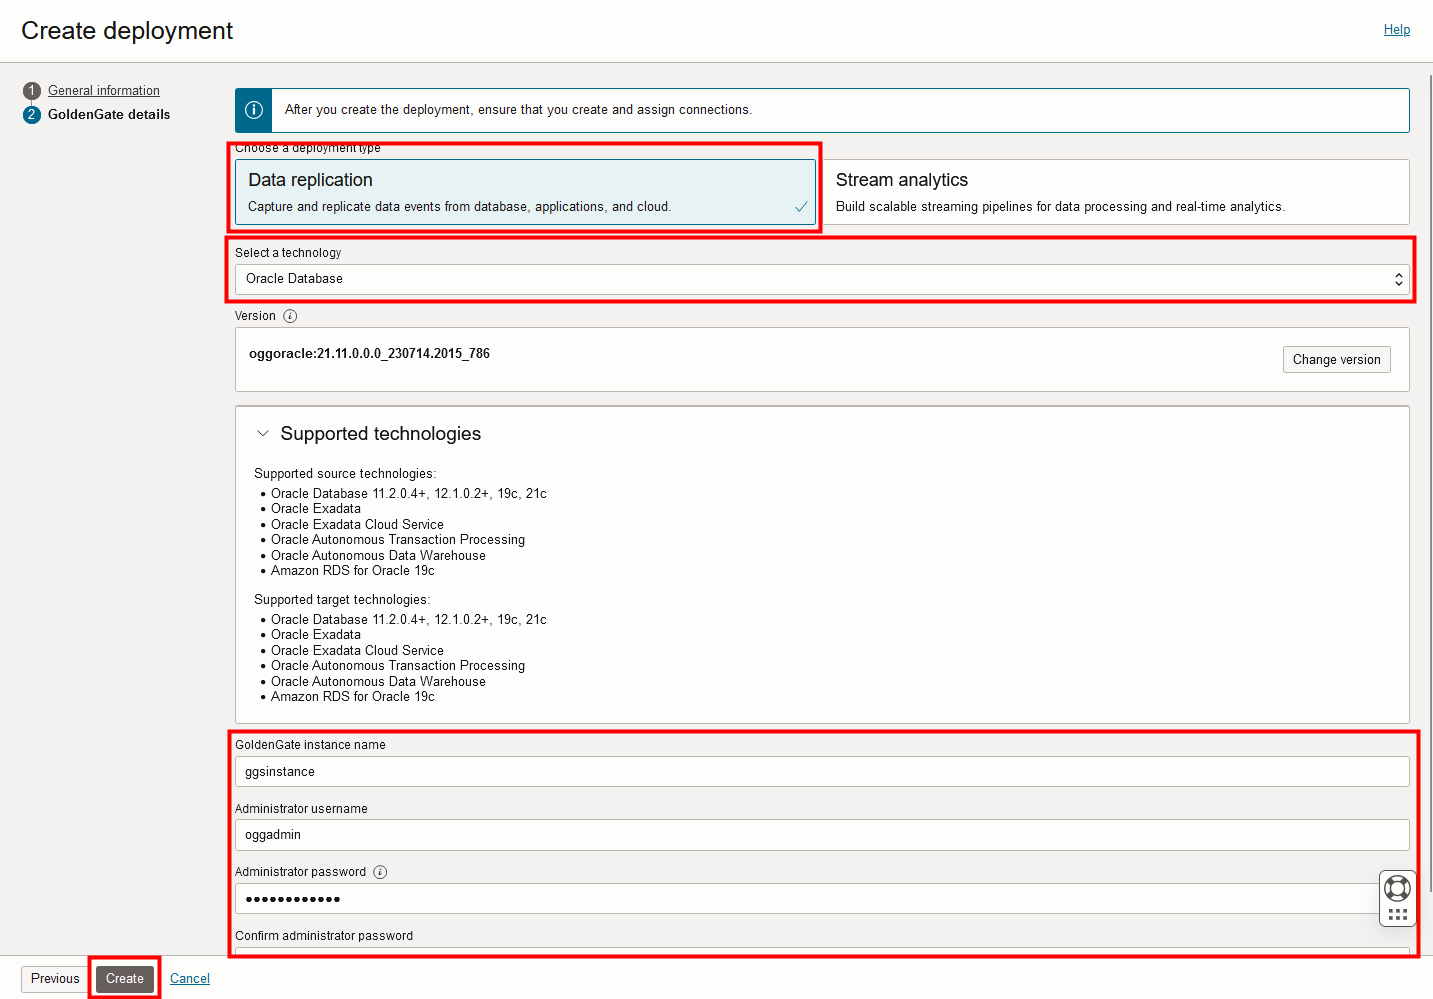
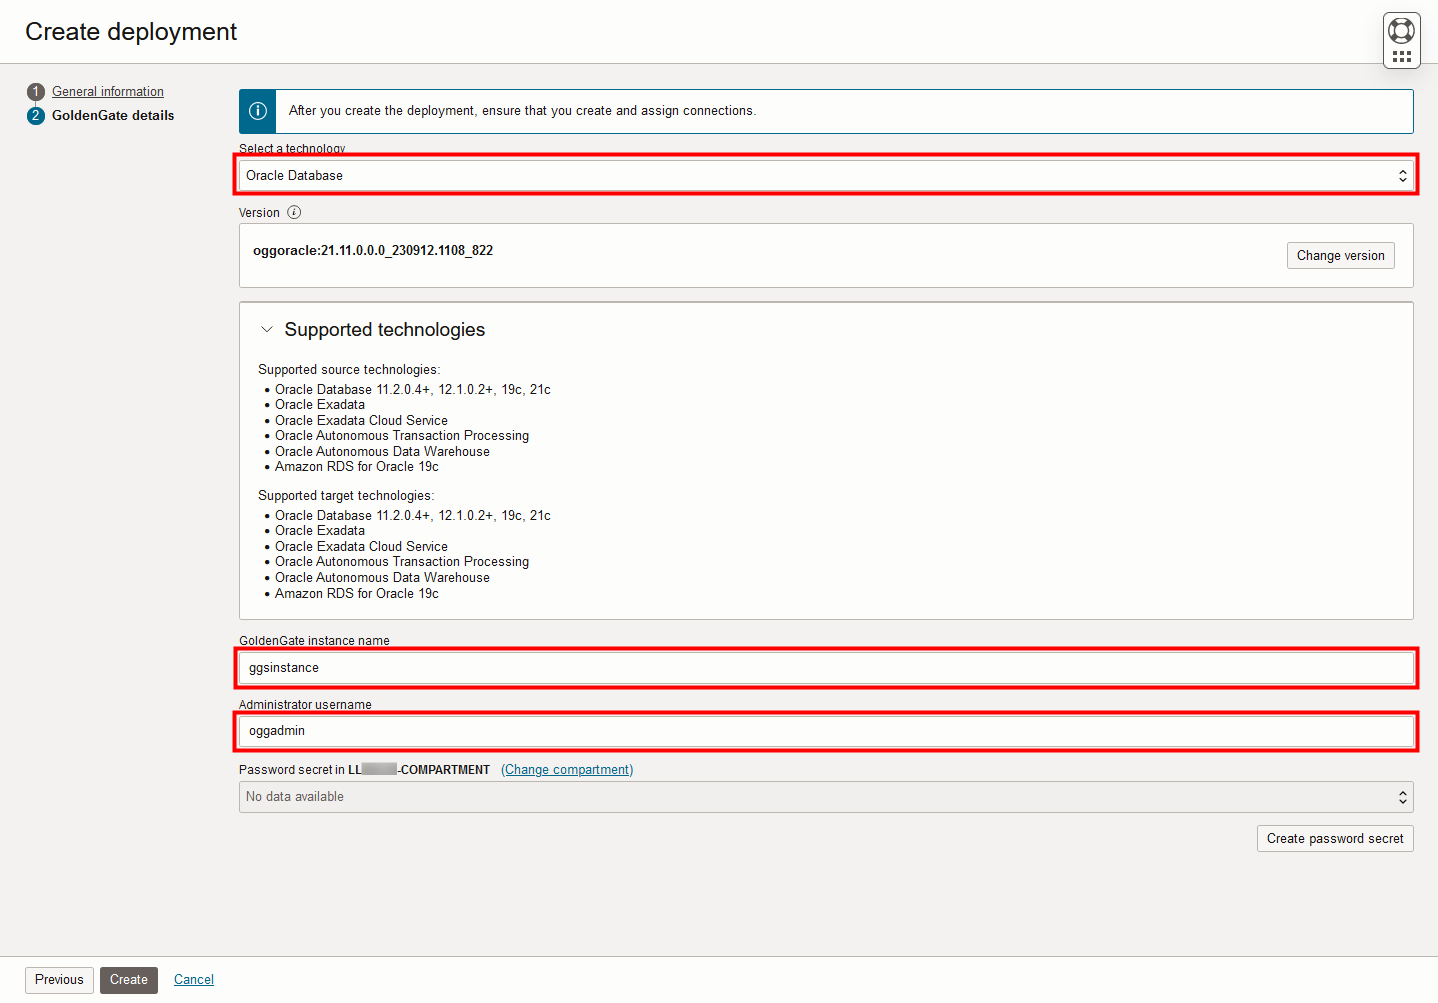
HOL to GB conversion (WMS 11396) (#117)
* Workshop 2120: Flow update and new repo validation

* Update adb.md

* Workshop 11092: Development for CloudWorld

Initial development for CloudWorld LiveLab

* Workshop 11092: Development for CloudWorld

* Update README.md

* Workshop 11092 - CloudWorld development

* Workshop 11092: Self QA

* Workshop 11092: Self QA

* Workshop 11092: Self QA

* Workshop 11092: Self QA

* Update extract.md

* Workshop 11092: Lint Checker changes

* Update create.md

* Workshop 11092: Grammarly checks

* Workshop 11148: ATP to Kafka workshop

New development

* ATP-Streaming and OCW udpates

* ATP-Stream development

* OCI GGS workshop fixes

* atp-streaming

clean up unused images

* atp-kafka clean up

* atp-streaming clean up

* bidirectional replication clean up

* atp-objectstorage cleanup

* oci-ggs cleanup

* ogg-to-ggs cleanup

* ggs-to-ogg cleanup

* atp-kafka clean up and create ggs-common/adb/images to test

* atp-objectstore consolidation

* Workshop 11092: File clean up

* Updated image references to ggs-common
* Added learn more links to labs

* Workshop 11148: File cleanup

* Updated image references to ggs-common
* Updated Learn more links
* Updated README

* Workshop 11093: File cleanup

* Update adb.md

* Workshop 11092: Replicat and monitor updates

* Update extract.md

* Workshop 2920/OCW #10

* Consolidation of duplicate image files to ggs-common
* Updates for OCW

* Updates to Workshop 4841/OCW Lab 10

Completed consolidation and update to workshop
[…]

diff --git a/ggsa-pipeline/workshops/sandbox/index.html b/ggsa-pipeline/workshops/sandbox/index.html
@@ -1,0 +1,62 @@
+<!DOCTYPE html>
+<html lang="en">
+
+<head>
+    <meta charset="utf-8">
+    <meta http-equiv="X-UA-Compatible" content="IE=edge">
+    <meta name="viewport" content="width=device-width, initial-scale=1">
+    <meta name="description" content="Oracle LiveLabs gives you access to Oracle's products to run a wide variety of labs and workshops; allowing you to experience our best technology, live!">
+    <title>Oracle LiveLabs</title>
+
+    <script src="https://oracle-livelabs.github.io/common/redwood-hol/js/jquery-1.11.0.min.js"></script>
+    <script src="https://oracle-livelabs.github.io/common/redwood-hol/js/jquery-ui-1.10.4.custom.js"></script>
+    <script src="https://oracle-livelabs.github.io/common/redwood-hol/js/main.min.js"></script>
+
+    <link rel="stylesheet" href="https://oracle-livelabs.github.io/common/redwood-hol/css/style.min.css" />
+    <link rel="shortcut icon" href="https://oracle-livelabs.github.io/common/redwood-hol/img/favicon.ico" />
+</head>
+
+<body>
+    <header class="hol-Header" role="banner">
+        <div class="hol-Header-wrap">
+            <div class="hol-Header-logo"><span>Oracle LiveLabs</span></div>
+            <a href="https://developer.oracle.com/livelabs" target="_blank" id="livelabs" title="Oracle LiveLabs"></a>
+            <div class="hol-Header-actions">
+                <button id="openNav" class="hol-Header-button hol-Header-button--menu rightNav" aria-label="Open Menu"
+                    title="Open Menu">
+                    <span class="hol-Header-toggleIcon"></span>
+                </button>
+            </div>
+        </div>
+    </header>
+
+    <div id="container">
+        <div id="leftNav">
+            <div id="toc"></div>
+        </div>
+        <div id="contentBox">
+            <main class="hol-Content" id="module-content"></main>
+        </div>
+    </div>
+
+      <footer class="hol-Footer">
+        <a class="hol-Footer-topLink" href="#top">Return to Top</a>
+        <div id="footer-banner"><div class="footer-row">
+          <div class="footer-content"><ul class="footer-links">
+              <li><a href="https://docs.oracle.com/pls/topic/lookup?ctx=en/legal&id=cpyr" target="_blank" aria-label="Open a new window to Oracle legal notices" data-lbl="copyright">© Oracle</a></li>
+              <li><a href="https://www.oracle.com/corporate/index.html" target="_blank" aria-label="Open a new window to learn more about oracle" data-lbl="about-oracle">About Oracle</a></li>
+              <li><a href="https://www.oracle.com/corporate/contact/" target="_blank" aria-label="Open a new window to contact oracle" data-lbl="contact-us">Contact Us</a></li>
+              <li class="footer-links-break"></li>
+              <li><a href="https://docs.oracle.com/en/browseall.html" target="_blank" aria-label="Open a new window to products a-z" data-lbl="products-a-z">Products A-Z</a></li>
+              <li><a href="https://www.oracle.com/legal/privacy/" target="_blank" aria-label="Open a new window to read more about Oracle terms of use and privacy" data-lbl="terms-of-use-and-privacy">Terms of Use & Privacy</a></li>
+              <li><a href="https://www.oracle.com/legal/privacy/privacy-policy.html#11" target="_blank" aria-label="Open a new window to read more about managing Oracle cookie preferences" data-lbl="cookie-preferences">Cookie Preferences</a></li>
+              <li><a href="https://www.oracle.com/legal/privacy/marketing-cloud-data-cloud-privacy-policy.html#adchoices" target="_blank" aria-label="Open a new window to ad choices" data-lbl="ad-choices">Ad Choices</a></li>
+              <li class="footer-links-break"></li><li class="last"><a href="https://docs.oracle.com/pls/topic/lookup?ctx=en/legal&id=cpyr" target="_blank" aria-label="Open a new window to Oracle legal notices" data-lbl="copyright">© Oracle</a></li>
+            </ul>
+          </div>
+        </div>
+      </div>
+    </footer>
+</body>
+
+</html>

diff --git a/ggsa-pipeline/create-ggsa-deployment/create-ggsa-deployment.md b/ggsa-pipeline/create-ggsa-deployment/create-ggsa-deployment.md
@@ -88,13 +88,21 @@ In this lab, you will:
 
 15. For Administrator Username, enter **osaadmin**.
 
-16. For Administrator Password, click **Copy value** for **Admin Password** in Terraform Values section of your Reservation Information panel.
+16. For Password secret in &lt;USER&gt;-COMPARTMENT, click **Create password secret**.
 
-    ![Terraform values](./images/02-16-terraformvalues.png " ")
+    ![GoldenGate details](./images/create_deployment_2.png " ")
 
-17. Click **Create**.
+17. In the Create secret panel, enter `LLsecret`.
 
-    ![Completed GoldenGate details](./images/create_deployment_2.png " ")
+18. For User password, enter a password 8 to 30 alphanumeric characters in length, containing at least 1 uppercase, 1 lowercase, 1 numeric, and 1 special character.
+
+    > **NOTE**: The special characters must not be $, ^, or ?. 
+
+    ![Create Password secret](https://oracle-livelabs.github.io/goldengate/ggs-common/create/images/01-17-passwordsecret.png " ")
+
+19. Confirm the password, and then click **Create**.
+
+20. Back in the Create deployment panel, for Password secret, ensure **LLsecret** is selected, and then click **Create**.
 
 You're brought to the Deployment details page. Continue with the following tasks while the deployment creates. Its status changes from CREATING to ACTIVE when it's ready for you to use.
 
@@ -222,5 +230,5 @@ You may now **proceed to the next lab.**
 ## Acknowledgements
 * **Author** - Alex Kotopoulis, Director of Product Management, Data Integration Development
 * **Contributors** - Hope Fisher and Kaylien Phan, Database Product Management
-* **Last Updated By/Date** - Jenny Chan, September 2023
+* **Last Updated By/Date** - Jenny Chan, November 2023
 
